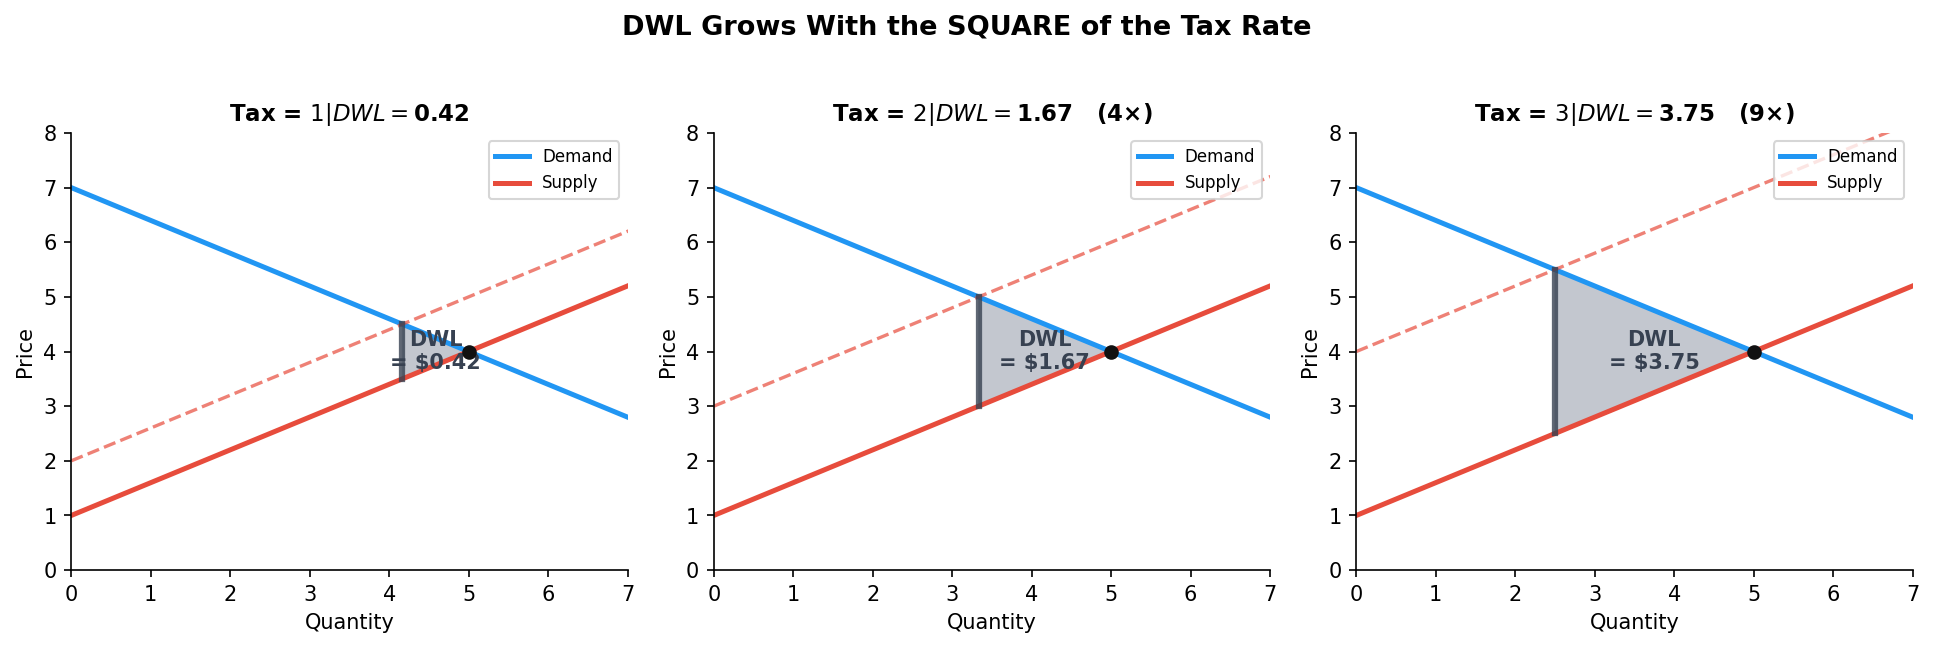
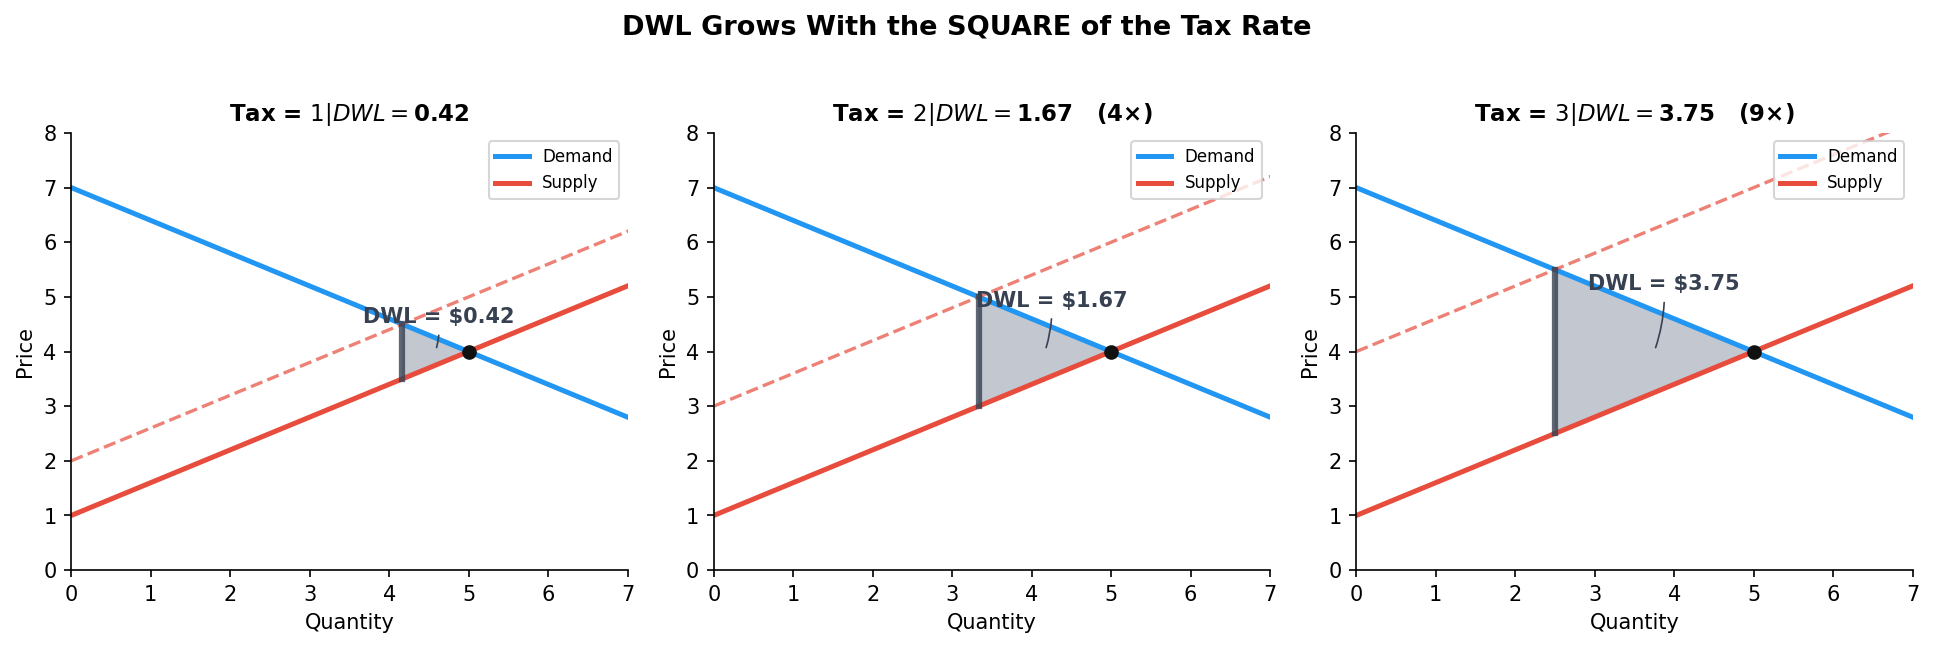
ch07: add wireless inelastic-burden slide (p37) + fix DWL-squared labels (p48)
Page 48 (DWL Grows With Square of Tax): the 'DWL = $X' text label was
sitting right on top of the equilibrium dot. Switch from inline text
to ax.annotate with an xytext offset (label tucked in the top half of
the triangle) and a subtle leader line back to the centroid. Same fix
applied to all three panels (Tax = $1, $2, $3).

New page 37 'Tax on the Wireless Market — Why Consumers Bear It'
sits right after the A-F welfare-comparison slide. Reruns the same
$5/plan tax on a market with INELASTIC demand (E_s ~2.0, |E_d| ~0.5)
so the burden splits 80/20 instead of the symmetric 50/50 from the
earlier worked examples.
  Left: case-study card, 'demand is inelastic — why?' card (necessity,
  3-carrier concentration, contracts + financed phones), and a burden-
  formula card walking through Buyer share = E_s/(E_s+|E_d|) = 80%.
  Right: figure_016_wireless_inelastic_burden.png — steep demand,
  gentle supply, eq ($50, 2M), tax wedge from P_b=$54 to P_s=$49 at
  Q_t=1.5M, with 'Buyer bears $4 (80%)' and 'Seller bears $1 (20%)'
  call-out boxes plus a yellow 'Inelastic demand' tag pointing at the
  demand line.

diff --git a/econ1116/ch07-government-intervention/index.html b/econ1116/ch07-government-intervention/index.html
@@ -1319,6 +1319,41 @@
  </aside>
 </section>
 
+<!-- Tax on the Wireless Market — inelastic demand → buyer bears 80% -->
+<section id="wireless-burden">
+ <h2><i class="fa-solid fa-file-lines" style="color: var(--accent-color);"></i> Tax on the Wireless Market &mdash; Why Consumers Bear It</h2>
+ <div style="display: grid; grid-template-columns: 1fr 1.2fr; gap: 16px; margin-top: 8px; align-items: start;">
+  <!-- Left: argument -->
+  <div style="display: flex; flex-direction: column; gap: 10px;">
+   <div style="background: #fef9f3; border-radius: 10px; padding: 12px 18px; border-left: 4px solid var(--accent-color);">
+    <p style="font-size: 11pt; font-weight: 700; color: var(--accent-color); text-transform: uppercase; letter-spacing: 0.06em; margin: 0 0 4px 0;"><i class="fa-solid fa-file-lines"></i>&nbsp; Case Study</p>
+    <p style="font-size: 13.5pt; line-height: 1.5; margin: 0;">A <strong>$5 per-plan tax</strong> lands on a real wireless market &mdash; not the symmetric textbook lines, but one with very <em>inelastic demand</em>.</p>
+   </div>
+   <div style="background: #f8f6f3; border-radius: 8px; padding: 10px 16px; border-left: 4px solid var(--primary-color);">
+    <p style="font-size: 11pt; font-weight: 700; color: var(--primary-color); text-transform: uppercase; letter-spacing: 0.06em; margin: 0 0 4px 0;">Demand is inelastic. Why?</p>
+    <ul style="font-size: 12.5pt; line-height: 1.5; margin: 0; padding-left: 20px;">
+     <li><strong>Necessity:</strong> we need cell service for work, school, payments, maps.</li>
+     <li><strong>Few substitutes:</strong> three carriers (VZ, T-Mobile, AT&amp;T) cover &gt;95% of the market.</li>
+     <li><strong>Contracts &amp; switching cost:</strong> family plans + financed phones lock subscribers in.</li>
+    </ul>
+   </div>
+   <div style="background: #ffebee; border-radius: 10px; padding: 12px 18px; border-left: 4px solid var(--danger-color);">
+    <p style="font-size: 11pt; font-weight: 700; color: var(--danger-color); text-transform: uppercase; letter-spacing: 0.06em; margin: 0 0 4px 0;">Burden formula in action</p>
+    <p style="font-size: 13pt; line-height: 1.45; margin: 0 0 6px 0;">With E<sub>s</sub> &asymp; 2.0 and |E<sub>d</sub>| &asymp; 0.5:</p>
+    <p style="font-size: 14pt; text-align: center; margin: 4px 0; font-family: var(--heading-font); font-weight: 700;">Buyer share = E<sub>s</sub> / (E<sub>s</sub> + |E<sub>d</sub>|) = 2 / 2.5 = <span style="color: var(--danger-color);">80%</span></p>
+    <p style="font-size: 12pt; margin: 4px 0 0 0; line-height: 1.4;">Of the $5 wedge, <strong>$4 comes out of the consumer&rsquo;s pocket</strong>; sellers absorb only <strong>$1</strong>. Same logic as FICA on workers.</p>
+   </div>
+  </div>
+  <!-- Right: figure -->
+  <div style="display: flex; flex-direction: column;">
+   <img src="figures/figure_016_wireless_inelastic_burden.png" alt="Wireless market tax with inelastic demand and 80/20 burden split" style="width: 100%; max-height: 440px; object-fit: contain;">
+  </div>
+ </div>
+ <aside class="notes">
+  This re-runs the wireless example with realistic elasticities. The earlier worked example (Cases 1 and 2) used symmetric linear curves to keep the algebra clean — buyer and seller each bore 50%. Real wireless demand is inelastic for the reasons in the bullets, so the burden splits 80/20. P_b rises from \$50 to \$54 (consumer pays \$4 more), P_s falls only to \$49 (sellers absorb \$1). The state and federal tax burden trend we showed earlier (now 27.6%) lands almost entirely on subscribers — those rising 911 fees and USF surcharges show up on the consumer's bill because demand can't escape. Tee up: this is why carbon-tax incidence (Poll 2) is mostly on drivers too — same logic, different inelastic good.
+ </aside>
+</section>
+
 <!-- Equivalence principle -->
 <section id="equivalence">
  <h2>The Equivalence Principle</h2>

diff --git a/econ1116/ch07-government-intervention/presentation.html b/econ1116/ch07-government-intervention/presentation.html
@@ -1319,6 +1319,41 @@
  </aside>
 </section>
 
+<!-- Tax on the Wireless Market — inelastic demand → buyer bears 80% -->
+<section id="wireless-burden">
+ <h2><i class="fa-solid fa-file-lines" style="color: var(--accent-color);"></i> Tax on the Wireless Market &mdash; Why Consumers Bear It</h2>
+ <div style="display: grid; grid-template-columns: 1fr 1.2fr; gap: 16px; margin-top: 8px; align-items: start;">
+  <!-- Left: argument -->
+  <div style="display: flex; flex-direction: column; gap: 10px;">
+   <div style="background: #fef9f3; border-radius: 10px; padding: 12px 18px; border-left: 4px solid var(--accent-color);">
+    <p style="font-size: 11pt; font-weight: 700; color: var(--accent-color); text-transform: uppercase; letter-spacing: 0.06em; margin: 0 0 4px 0;"><i class="fa-solid fa-file-lines"></i>&nbsp; Case Study</p>
+    <p style="font-size: 13.5pt; line-height: 1.5; margin: 0;">A <strong>$5 per-plan tax</strong> lands on a real wireless market &mdash; not the symmetric textbook lines, but one with very <em>inelastic demand</em>.</p>
+   </div>
+   <div style="background: #f8f6f3; border-radius: 8px; padding: 10px 16px; border-left: 4px solid var(--primary-color);">
+    <p style="font-size: 11pt; font-weight: 700; color: var(--primary-color); text-transform: uppercase; letter-spacing: 0.06em; margin: 0 0 4px 0;">Demand is inelastic. Why?</p>
+    <ul style="font-size: 12.5pt; line-height: 1.5; margin: 0; padding-left: 20px;">
+     <li><strong>Necessity:</strong> we need cell service for work, school, payments, maps.</li>
+     <li><strong>Few substitutes:</strong> three carriers (VZ, T-Mobile, AT&amp;T) cover &gt;95% of the market.</li>
+     <li><strong>Contracts &amp; switching cost:</strong> family plans + financed phones lock subscribers in.</li>
+    </ul>
+   </div>
+   <div style="background: #ffebee; border-radius: 10px; padding: 12px 18px; border-left: 4px solid var(--danger-color);">
+    <p style="font-size: 11pt; font-weight: 700; color: var(--danger-color); text-transform: uppercase; letter-spacing: 0.06em; margin: 0 0 4px 0;">Burden formula in action</p>
+    <p style="font-size: 13pt; line-height: 1.45; margin: 0 0 6px 0;">With E<sub>s</sub> &asymp; 2.0 and |E<sub>d</sub>| &asymp; 0.5:</p>
+    <p style="font-size: 14pt; text-align: center; margin: 4px 0; font-family: var(--heading-font); font-weight: 700;">Buyer share = E<sub>s</sub> / (E<sub>s</sub> + |E<sub>d</sub>|) = 2 / 2.5 = <span style="color: var(--danger-color);">80%</span></p>
+    <p style="font-size: 12pt; margin: 4px 0 0 0; line-height: 1.4;">Of the $5 wedge, <strong>$4 comes out of the consumer&rsquo;s pocket</strong>; sellers absorb only <strong>$1</strong>. Same logic as FICA on workers.</p>
+   </div>
+  </div>
+  <!-- Right: figure -->
+  <div style="display: flex; flex-direction: column;">
+   <img src="figures/figure_016_wireless_inelastic_burden.png" alt="Wireless market tax with inelastic demand and 80/20 burden split" style="width: 100%; max-height: 440px; object-fit: contain;">
+  </div>
+ </div>
+ <aside class="notes">
+  This re-runs the wireless example with realistic elasticities. The earlier worked example (Cases 1 and 2) used symmetric linear curves to keep the algebra clean — buyer and seller each bore 50%. Real wireless demand is inelastic for the reasons in the bullets, so the burden splits 80/20. P_b rises from \$50 to \$54 (consumer pays \$4 more), P_s falls only to \$49 (sellers absorb \$1). The state and federal tax burden trend we showed earlier (now 27.6%) lands almost entirely on subscribers — those rising 911 fees and USF surcharges show up on the consumer's bill because demand can't escape. Tee up: this is why carbon-tax incidence (Poll 2) is mostly on drivers too — same logic, different inelastic good.
+ </aside>
+</section>
+
 <!-- Equivalence principle -->
 <section id="equivalence">
  <h2>The Equivalence Principle</h2>
